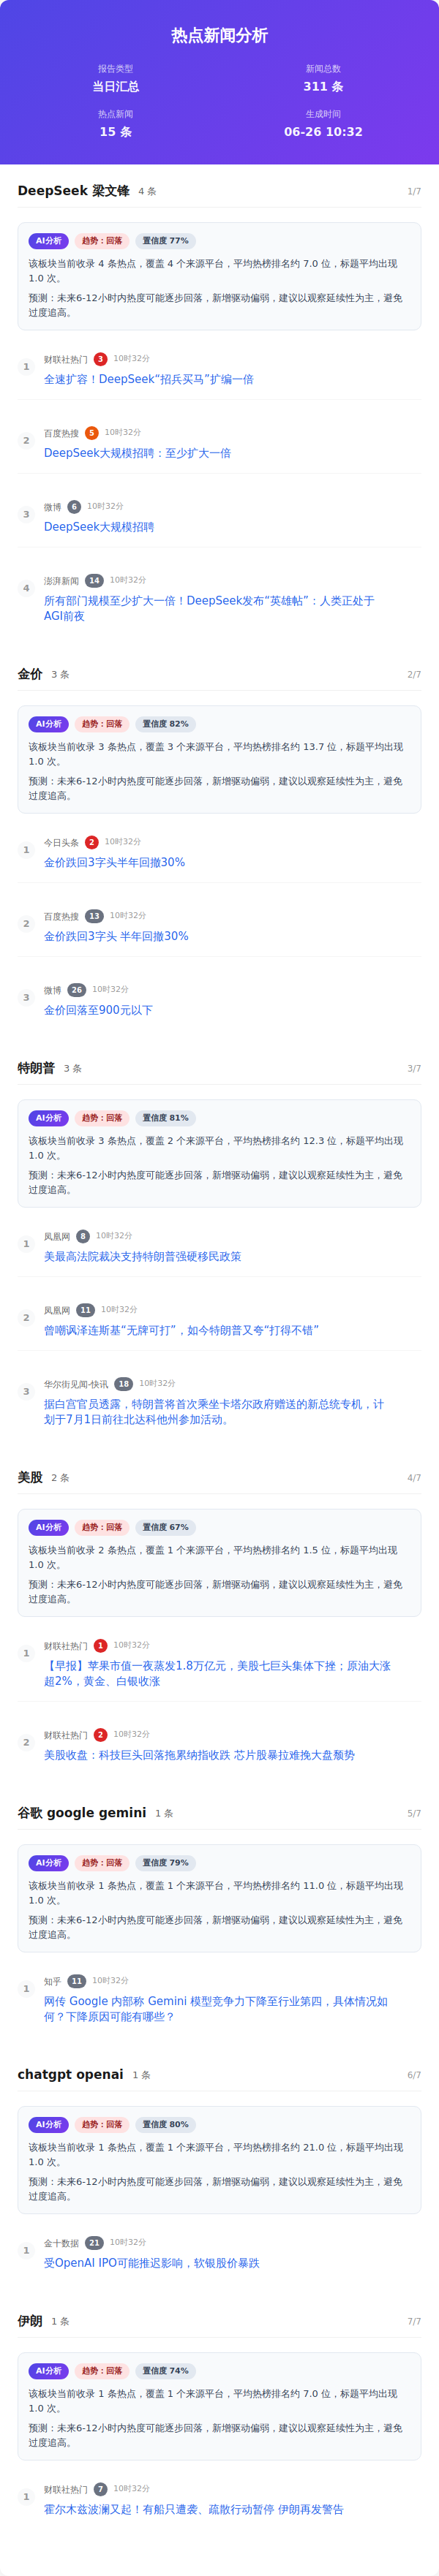
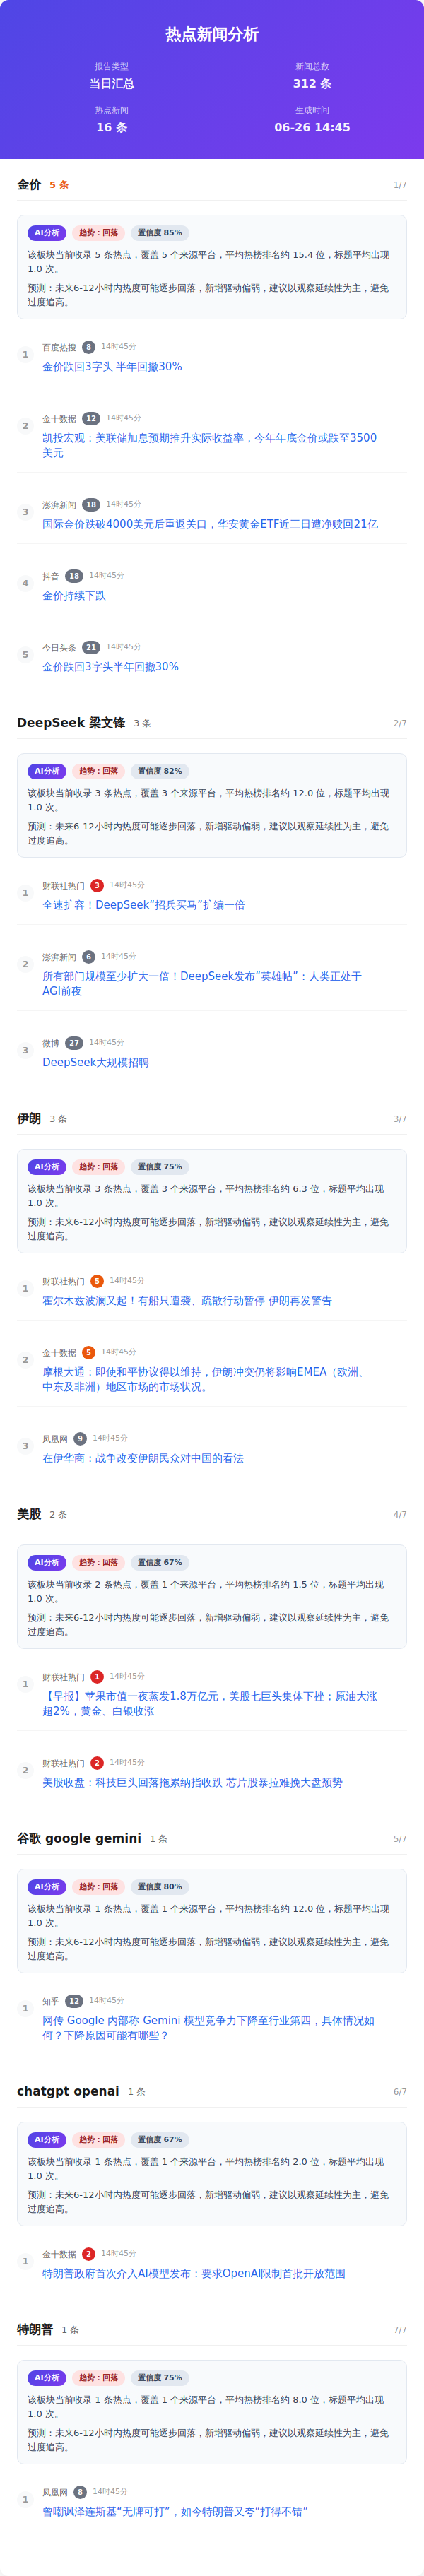
Auto update by GitHub Actions at Fri Jun 26 14:45:23 CST 2026

diff --git a/index.html b/index.html
@@ -455,15 +455,15 @@
                     </div>
                     <div class="info-item">
                         <span class="info-label">新闻总数</span>
-                        <span class="info-value">311 条</span>
+                        <span class="info-value">312 条</span>
                     </div>
                     <div class="info-item">
                         <span class="info-label">热点新闻</span>
-                        <span class="info-value">15 条</span>
+                        <span class="info-value">16 条</span>
                     </div>
                     <div class="info-item">
                         <span class="info-label">生成时间</span>
-                        <span class="info-value">06-26 10:32</span>
+                        <span class="info-value">06-26 14:45</span>
                     </div>
                 </div>
             </div>
@@ -472,8 +472,8 @@
                 <div class="word-group">
                     <div class="word-header">
                         <div class="word-info">
-                            <div class="word-name">DeepSeek 梁文锋</div>
-                            <div class="word-count ">4 条</div>
+                            <div class="word-name">金价</div>
+                            <div class="word-count warm">5 条</div>
                         </div>
                         <div class="word-index">1/7</div>
                     </div>
@@ -481,18 +481,18 @@
                         <div class="ai-insight-top">
                             <span class="ai-badge">AI分析</span>
                             <span class="trend-badge down">趋势：回落</span>
-                            <span class="confidence-pill">置信度 77%</span>
+                            <span class="confidence-pill">置信度 85%</span>
                         </div>
-                        <div class="ai-text">该板块当前收录 4 条热点，覆盖 4 个来源平台，平均热榜排名约 7.0 位，标题平均出现 1.0 次。</div>
+                        <div class="ai-text">该板块当前收录 5 条热点，覆盖 5 个来源平台，平均热榜排名约 15.4 位，标题平均出现 1.0 次。</div>
                         <div class="ai-text">预测：未来6-12小时内热度可能逐步回落，新增驱动偏弱，建议以观察延续性为主，避免过度追高。</div>
                     </div>
                     <div class="news-item ">
                         <div class="news-number">1</div>
                         <div class="news-content">
                             <div class="news-header">
-                                <span class="source-name">财联社热门</span><span class="rank-num top">3</span><span class="time-info">10时32分</span>
+                                <span class="source-name">百度热搜</span><span class="rank-num ">8</span><span class="time-info">14时45分</span>
                             </div>
-                            <div class="news-title"><a href="https://www.cls.cn/detail/2409672" target="_blank" class="news-link">全速扩容！DeepSeek“招兵买马”扩编一倍</a>
+                            <div class="news-title"><a href="https://www.baidu.com/s?wd=%E9%87%91%E4%BB%B7%E8%B7%8C%E5%9B%9E3%E5%AD%97%E5%A4%B4+%E5%8D%8A%E5%B9%B4%E5%9B%9E%E6%92%A430%25" target="_blank" class="news-link">金价跌回3字头 半年回撤30%</a>
                             </div>
                         </div>
                     </div>
@@ -500,9 +500,9 @@
                         <div class="news-number">2</div>
                         <div class="news-content">
                             <div class="news-header">
-                                <span class="source-name">百度热搜</span><span class="rank-num high">5</span><span class="time-info">10时32分</span>
+                                <span class="source-name">金十数据</span><span class="rank-num ">12</span><span class="time-info">14时45分</span>
                             </div>
-                            <div class="news-title"><a href="https://www.baidu.com/s?wd=DeepSeek%E5%A4%A7%E8%A7%84%E6%A8%A1%E6%8B%9B%E8%81%98%EF%BC%9A%E8%87%B3%E5%B0%91%E6%89%A9%E5%A4%A7%E4%B8%80%E5%80%8D" target="_blank" class="news-link">DeepSeek大规模招聘：至少扩大一倍</a>
+                            <div class="news-title"><a href="https://flash.jin10.com/detail/20260626135717059800" target="_blank" class="news-link">凯投宏观：美联储加息预期推升实际收益率，今年年底金价或跌至3500美元</a>
                             </div>
                         </div>
                     </div>
@@ -510,9 +510,9 @@
                         <div class="news-number">3</div>
                         <div class="news-content">
                             <div class="news-header">
-                                <span class="source-name">微博</span><span class="rank-num ">6</span><span class="time-info">10时32分</span>
+                                <span class="source-name">澎湃新闻</span><span class="rank-num ">18</span><span class="time-info">14时45分</span>
                             </div>
-                            <div class="news-title"><a href="https://s.weibo.com/weibo?q=%23DeepSeek%E5%A4%A7%E8%A7%84%E6%A8%A1%E6%8B%9B%E8%81%98%23&amp;t=31&amp;band_rank=6&amp;Refer=top" target="_blank" class="news-link">DeepSeek大规模招聘</a>
+                            <div class="news-title"><a href="https://m.thepaper.cn/newsDetail_forward_33454301" target="_blank" class="news-link">国际金价跌破4000美元后重返关口，华安黄金ETF近三日遭净赎回21亿</a>
                             </div>
                         </div>
                     </div>
@@ -520,9 +520,19 @@
                         <div class="news-number">4</div>
                         <div class="news-content">
                             <div class="news-header">
-                                <span class="source-name">澎湃新闻</span><span class="rank-num ">14</span><span class="time-info">10时32分</span>
+                                <span class="source-name">抖音</span><span class="rank-num ">18</span><span class="time-info">14时45分</span>
                             </div>
-                            <div class="news-title"><a href="https://m.thepaper.cn/newsDetail_forward_33454877" target="_blank" class="news-link">所有部门规模至少扩大一倍！DeepSeek发布“英雄帖”：人类正处于AGI前夜</a>
+                            <div class="news-title"><a href="https://www.douyin.com/hot/2547979" target="_blank" class="news-link">金价持续下跌</a>
+                            </div>
+                        </div>
+                    </div>
+                    <div class="news-item ">
+                        <div class="news-number">5</div>
+                        <div class="news-content">
+                            <div class="news-header">
+                                <span class="source-name">今日头条</span><span class="rank-num ">21</span><span class="time-info">14时45分</span>
+                            </div>
+                            <div class="news-title"><a href="https://www.toutiao.com/trending/7655352007544278564/" target="_blank" class="news-link">金价跌回3字头半年回撤30%</a>
                             </div>
                         </div>
                     </div>
@@ -530,7 +540,7 @@
                 <div class="word-group">
                     <div class="word-header">
                         <div class="word-info">
-                            <div class="word-name">金价</div>
+                            <div class="word-name">DeepSeek 梁文锋</div>
                             <div class="word-count ">3 条</div>
                         </div>
                         <div class="word-index">2/7</div>
@@ -541,16 +551,16 @@
                             <span class="trend-badge down">趋势：回落</span>
                             <span class="confidence-pill">置信度 82%</span>
                         </div>
-                        <div class="ai-text">该板块当前收录 3 条热点，覆盖 3 个来源平台，平均热榜排名约 13.7 位，标题平均出现 1.0 次。</div>
+                        <div class="ai-text">该板块当前收录 3 条热点，覆盖 3 个来源平台，平均热榜排名约 12.0 位，标题平均出现 1.0 次。</div>
                         <div class="ai-text">预测：未来6-12小时内热度可能逐步回落，新增驱动偏弱，建议以观察延续性为主，避免过度追高。</div>
                     </div>
                     <div class="news-item ">
                         <div class="news-number">1</div>
                         <div class="news-content">
                             <div class="news-header">
-                                <span class="source-name">今日头条</span><span class="rank-num top">2</span><span class="time-info">10时32分</span>
+                                <span class="source-name">财联社热门</span><span class="rank-num top">3</span><span class="time-info">14时45分</span>
                             </div>
-                            <div class="news-title"><a href="https://www.toutiao.com/trending/7655352007544278564/" target="_blank" class="news-link">金价跌回3字头半年回撤30%</a>
+                            <div class="news-title"><a href="https://www.cls.cn/detail/2409672" target="_blank" class="news-link">全速扩容！DeepSeek“招兵买马”扩编一倍</a>
                             </div>
                         </div>
                     </div>
@@ -558,9 +568,9 @@
                         <div class="news-number">2</div>
                         <div class="news-content">
                             <div class="news-header">
-                                <span class="source-name">百度热搜</span><span class="rank-num ">13</span><span class="time-info">10时32分</span>
+                                <span class="source-name">澎湃新闻</span><span class="rank-num ">6</span><span class="time-info">14时45分</span>
                             </div>
-                            <div class="news-title"><a href="https://www.baidu.com/s?wd=%E9%87%91%E4%BB%B7%E8%B7%8C%E5%9B%9E3%E5%AD%97%E5%A4%B4+%E5%8D%8A%E5%B9%B4%E5%9B%9E%E6%92%A430%25" target="_blank" class="news-link">金价跌回3字头 半年回撤30%</a>
+                            <div class="news-title"><a href="https://m.thepaper.cn/newsDetail_forward_33454877" target="_blank" class="news-link">所有部门规模至少扩大一倍！DeepSeek发布“英雄帖”：人类正处于AGI前夜</a>
                             </div>
                         </div>
                     </div>
@@ -568,9 +578,9 @@
                         <div class="news-number">3</div>
                         <div class="news-content">
                             <div class="news-header">
-                                <span class="source-name">微博</span><span class="rank-num ">26</span><span class="time-info">10时32分</span>
+                                <span class="source-name">微博</span><span class="rank-num ">27</span><span class="time-info">14时45分</span>
                             </div>
-                            <div class="news-title"><a href="https://s.weibo.com/weibo?q=%23%E9%87%91%E4%BB%B7%E5%9B%9E%E8%90%BD%E8%87%B3900%E5%85%83%E4%BB%A5%E4%B8%8B%23&amp;t=31&amp;band_rank=26&amp;Refer=top" target="_blank" class="news-link">金价回落至900元以下</a>
+                            <div class="news-title"><a href="https://s.weibo.com/weibo?q=%23DeepSeek%E5%A4%A7%E8%A7%84%E6%A8%A1%E6%8B%9B%E8%81%98%23&amp;t=31&amp;band_rank=27&amp;Refer=top" target="_blank" class="news-link">DeepSeek大规模招聘</a>
                             </div>
                         </div>
                     </div>
@@ -578,7 +588,7 @@
                 <div class="word-group">
                     <div class="word-header">
                         <div class="word-info">
-                            <div class="word-name">特朗普</div>
+                            <div class="word-name">伊朗</div>
                             <div class="word-count ">3 条</div>
                         </div>
                         <div class="word-index">3/7</div>
@@ -587,18 +597,18 @@
                         <div class="ai-insight-top">
                             <span class="ai-badge">AI分析</span>
                             <span class="trend-badge down">趋势：回落</span>
-                            <span class="confidence-pill">置信度 81%</span>
+                            <span class="confidence-pill">置信度 75%</span>
                         </div>
-                        <div class="ai-text">该板块当前收录 3 条热点，覆盖 2 个来源平台，平均热榜排名约 12.3 位，标题平均出现 1.0 次。</div>
+                        <div class="ai-text">该板块当前收录 3 条热点，覆盖 3 个来源平台，平均热榜排名约 6.3 位，标题平均出现 1.0 次。</div>
                         <div class="ai-text">预测：未来6-12小时内热度可能逐步回落，新增驱动偏弱，建议以观察延续性为主，避免过度追高。</div>
                     </div>
                     <div class="news-item ">
                         <div class="news-number">1</div>
                         <div class="news-content">
                             <div class="news-header">
-                                <span class="source-name">凤凰网</span><span class="rank-num ">8</span><span class="time-info">10时32分</span>
+                                <span class="source-name">财联社热门</span><span class="rank-num high">5</span><span class="time-info">14时45分</span>
                             </div>
-                            <div class="news-title"><a href="https://news.ifeng.com/c/8uFtfSi0LYE" target="_blank" class="news-link">美最高法院裁决支持特朗普强硬移民政策</a>
+                            <div class="news-title"><a href="https://www.cls.cn/detail/2409704" target="_blank" class="news-link">霍尔木兹波澜又起！有船只遭袭、疏散行动暂停 伊朗再发警告</a>
                             </div>
                         </div>
                     </div>
@@ -606,9 +616,9 @@
                         <div class="news-number">2</div>
                         <div class="news-content">
                             <div class="news-header">
-                                <span class="source-name">凤凰网</span><span class="rank-num ">11</span><span class="time-info">10时32分</span>
+                                <span class="source-name">金十数据</span><span class="rank-num high">5</span><span class="time-info">14时45分</span>
                             </div>
-                            <div class="news-title"><a href="https://news.ifeng.com/c/8uFlkiiXNU5" target="_blank" class="news-link">曾嘲讽泽连斯基“无牌可打”，如今特朗普又夸“打得不错”</a>
+                            <div class="news-title"><a href="https://flash.jin10.com/detail/20260626140754271800" target="_blank" class="news-link">摩根大通：即使和平协议得以维持，伊朗冲突仍将影响EMEA（欧洲、中东及非洲）地区市场的市场状况。</a>
                             </div>
                         </div>
                     </div>
@@ -616,9 +626,9 @@
                         <div class="news-number">3</div>
                         <div class="news-content">
                             <div class="news-header">
-                                <span class="source-name">华尔街见闻-快讯</span><span class="rank-num ">18</span><span class="time-info">10时32分</span>
+                                <span class="source-name">凤凰网</span><span class="rank-num ">9</span><span class="time-info">14时45分</span>
                             </div>
-                            <div class="news-title"><a href="https://wallstreetcn.com/livenews/3124934" target="_blank" class="news-link">据白宫官员透露，特朗普将首次乘坐卡塔尔政府赠送的新总统专机，计划于7月1日前往北达科他州参加活动。</a>
+                            <div class="news-title"><a href="https://news.ifeng.com/c/8uGjlCe4dNV" target="_blank" class="news-link">在伊华商：战争改变伊朗民众对中国的看法</a>
                             </div>
                         </div>
                     </div>
@@ -644,7 +654,7 @@
                         <div class="news-number">1</div>
                         <div class="news-content">
                             <div class="news-header">
-                                <span class="source-name">财联社热门</span><span class="rank-num top">1</span><span class="time-info">10时32分</span>
+                                <span class="source-name">财联社热门</span><span class="rank-num top">1</span><span class="time-info">14时45分</span>
                             </div>
                             <div class="news-title"><a href="https://www.cls.cn/detail/2409666" target="_blank" class="news-link">【早报】苹果市值一夜蒸发1.8万亿元，美股七巨头集体下挫；原油大涨超2%，黄金、白银收涨</a>
                             </div>
@@ -654,7 +664,7 @@
                         <div class="news-number">2</div>
                         <div class="news-content">
                             <div class="news-header">
-                                <span class="source-name">财联社热门</span><span class="rank-num top">2</span><span class="time-info">10时32分</span>
+                                <span class="source-name">财联社热门</span><span class="rank-num top">2</span><span class="time-info">14时45分</span>
                             </div>
                             <div class="news-title"><a href="https://www.cls.cn/detail/2409639" target="_blank" class="news-link">美股收盘：科技巨头回落拖累纳指收跌 芯片股暴拉难挽大盘颓势</a>
                             </div>
@@ -673,16 +683,16 @@
                         <div class="ai-insight-top">
                             <span class="ai-badge">AI分析</span>
                             <span class="trend-badge down">趋势：回落</span>
-                            <span class="confidence-pill">置信度 79%</span>
+                            <span class="confidence-pill">置信度 80%</span>
                         </div>
-                        <div class="ai-text">该板块当前收录 1 条热点，覆盖 1 个来源平台，平均热榜排名约 11.0 位，标题平均出现 1.0 次。</div>
+                        <div class="ai-text">该板块当前收录 1 条热点，覆盖 1 个来源平台，平均热榜排名约 12.0 位，标题平均出现 1.0 次。</div>
                         <div class="ai-text">预测：未来6-12小时内热度可能逐步回落，新增驱动偏弱，建议以观察延续性为主，避免过度追高。</div>
                     </div>
                     <div class="news-item ">
                         <div class="news-number">1</div>
                         <div class="news-content">
                             <div class="news-header">
-                                <span class="source-name">知乎</span><span class="rank-num ">11</span><span class="time-info">10时32分</span>
+                                <span class="source-name">知乎</span><span class="rank-num ">12</span><span class="time-info">14时45分</span>
                             </div>
                             <div class="news-title"><a href="https://www.zhihu.com/question/2052444159282082405" target="_blank" class="news-link">网传 Google 内部称 Gemini 模型竞争力下降至行业第四，具体情况如何？下降原因可能有哪些？</a>
                             </div>
@@ -701,18 +711,18 @@
                         <div class="ai-insight-top">
                             <span class="ai-badge">AI分析</span>
                             <span class="trend-badge down">趋势：回落</span>
-                            <span class="confidence-pill">置信度 80%</span>
+                            <span class="confidence-pill">置信度 67%</span>
                         </div>
-                        <div class="ai-text">该板块当前收录 1 条热点，覆盖 1 个来源平台，平均热榜排名约 21.0 位，标题平均出现 1.0 次。</div>
+                        <div class="ai-text">该板块当前收录 1 条热点，覆盖 1 个来源平台，平均热榜排名约 2.0 位，标题平均出现 1.0 次。</div>
                         <div class="ai-text">预测：未来6-12小时内热度可能逐步回落，新增驱动偏弱，建议以观察延续性为主，避免过度追高。</div>
                     </div>
                     <div class="news-item ">
                         <div class="news-number">1</div>
                         <div class="news-content">
                             <div class="news-header">
-                                <span class="source-name">金十数据</span><span class="rank-num ">21</span><span class="time-info">10时32分</span>
+                                <span class="source-name">金十数据</span><span class="rank-num top">2</span><span class="time-info">14时45分</span>
                             </div>
-                            <div class="news-title"><a href="https://flash.jin10.com/detail/20260626095032489800" target="_blank" class="news-link">受OpenAI IPO可能推迟影响，软银股价暴跌</a>
+                            <div class="news-title"><a href="https://flash.jin10.com/detail/20260626141456067800" target="_blank" class="news-link">特朗普政府首次介入AI模型发布：要求OpenAI限制首批开放范围</a>
                             </div>
                         </div>
                     </div>
@@ -720,7 +730,7 @@
                 <div class="word-group">
                     <div class="word-header">
                         <div class="word-info">
-                            <div class="word-name">伊朗</div>
+                            <div class="word-name">特朗普</div>
                             <div class="word-count ">1 条</div>
                         </div>
                         <div class="word-index">7/7</div>
@@ -729,18 +739,18 @@
                         <div class="ai-insight-top">
                             <span class="ai-badge">AI分析</span>
                             <span class="trend-badge down">趋势：回落</span>
-                            <span class="confidence-pill">置信度 74%</span>
+                            <span class="confidence-pill">置信度 75%</span>
                         </div>
-                        <div class="ai-text">该板块当前收录 1 条热点，覆盖 1 个来源平台，平均热榜排名约 7.0 位，标题平均出现 1.0 次。</div>
+                        <div class="ai-text">该板块当前收录 1 条热点，覆盖 1 个来源平台，平均热榜排名约 8.0 位，标题平均出现 1.0 次。</div>
                         <div class="ai-text">预测：未来6-12小时内热度可能逐步回落，新增驱动偏弱，建议以观察延续性为主，避免过度追高。</div>
                     </div>
                     <div class="news-item ">
                         <div class="news-number">1</div>
                         <div class="news-content">
                             <div class="news-header">
-                                <span class="source-name">财联社热门</span><span class="rank-num ">7</span><span class="time-info">10时32分</span>
+                                <span class="source-name">凤凰网</span><span class="rank-num ">8</span><span class="time-info">14时45分</span>
                             </div>
-                            <div class="news-title"><a href="https://www.cls.cn/detail/2409704" target="_blank" class="news-link">霍尔木兹波澜又起！有船只遭袭、疏散行动暂停 伊朗再发警告</a>
+                            <div class="news-title"><a href="https://news.ifeng.com/c/8uFlkiiXNU5" target="_blank" class="news-link">曾嘲讽泽连斯基“无牌可打”，如今特朗普又夸“打得不错”</a>
                             </div>
                         </div>
                     </div>